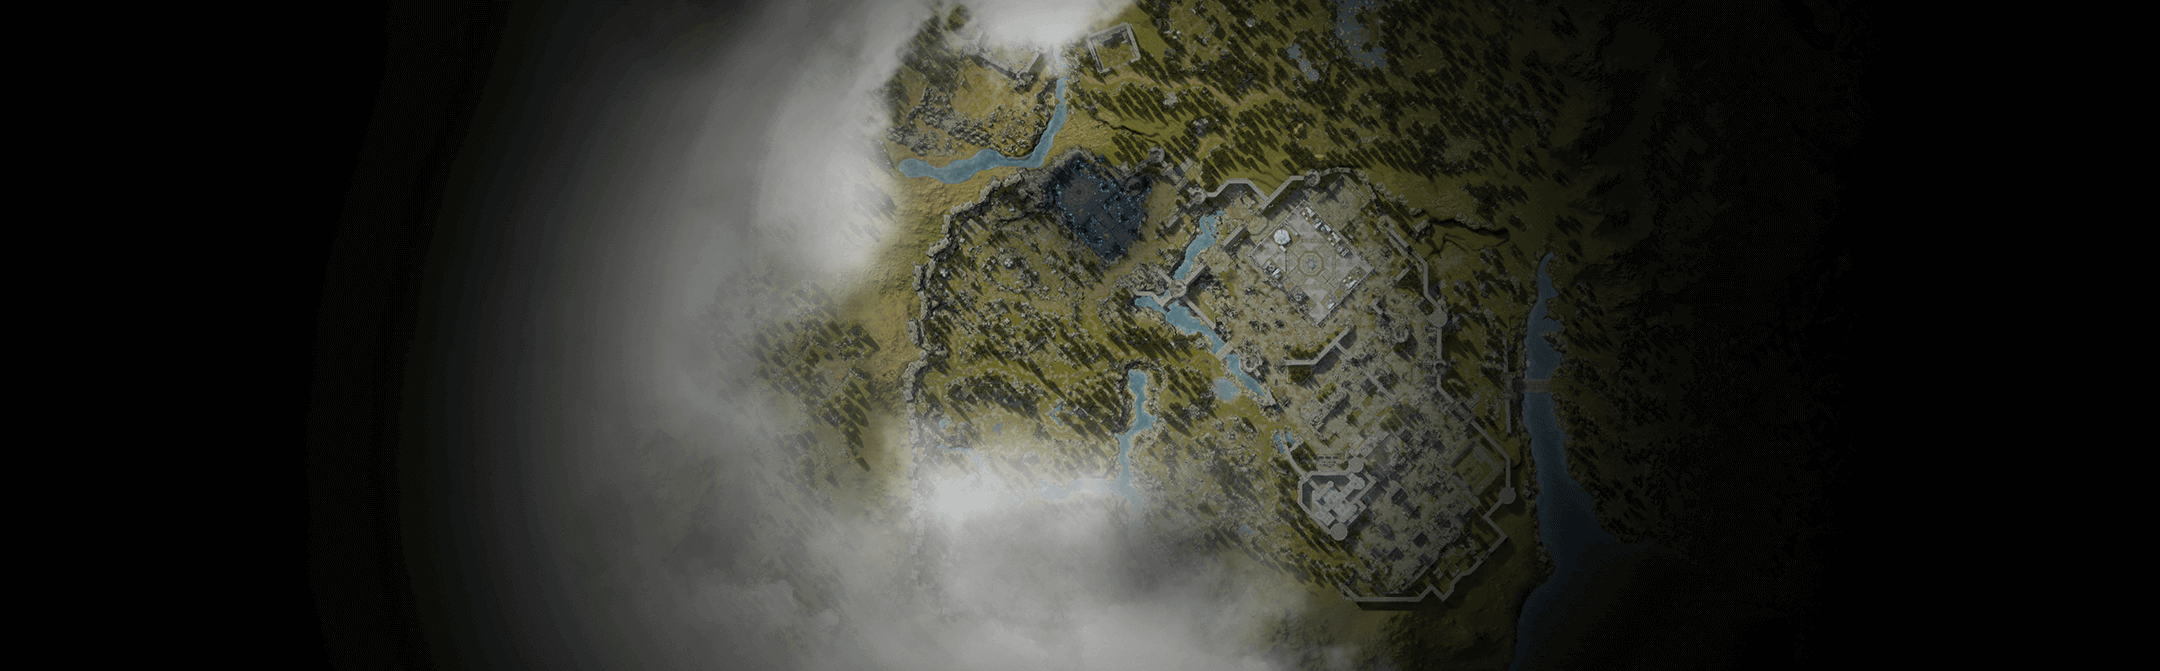
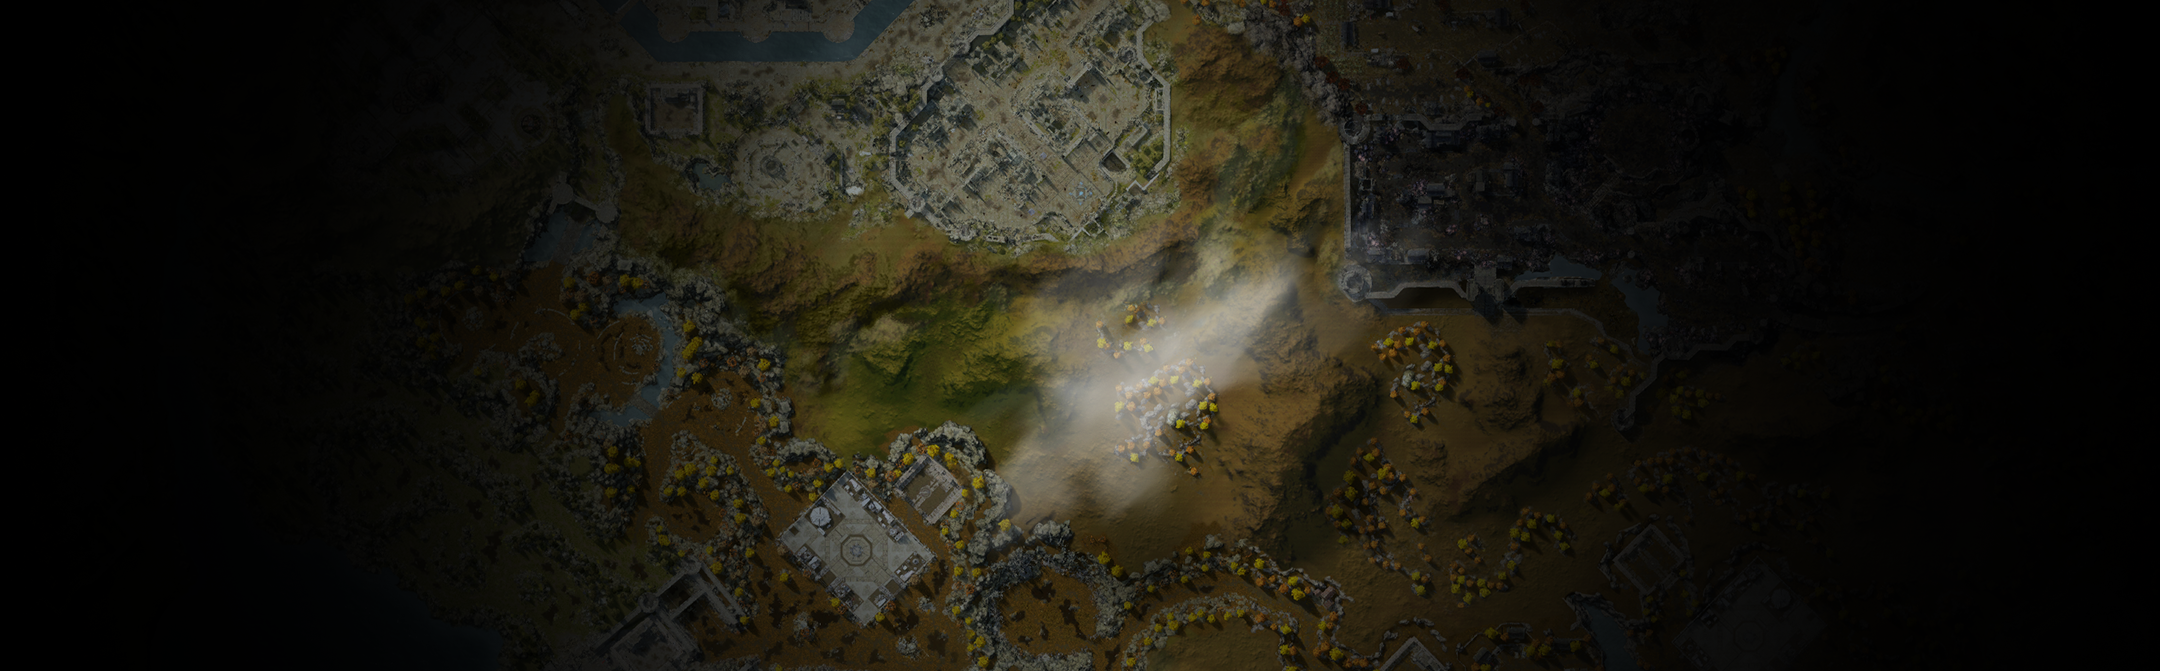
[boss-kerium] add mobile s4 map background style & fixed

diff --git a/boss-kerium/css/style.css b/boss-kerium/css/style.css
@@ -2782,6 +2782,8 @@ button {
     width: 100%;
     height: 100%;
     background-image: url(../images/s4_bg_map_mb.png);
+    -webkit-transform: translate(3%, 4%) scale(1.1);
+            transform: translate(3%, 4%) scale(1.1);
   }
   .s4-section__bg-map {
     width: 100%;

diff --git a/boss-kerium/scss/_rwd-pc-mid.scss b/boss-kerium/scss/_rwd-pc-mid.scss
@@ -66,6 +66,7 @@
     &__bg {
       @include size(100%);
       background-image: url(../images/s4_bg_map_mb.png);
+      transform: translate(3%, 4%) scale(1.1);
 
       &-map {
         @include size(100%,550px);
